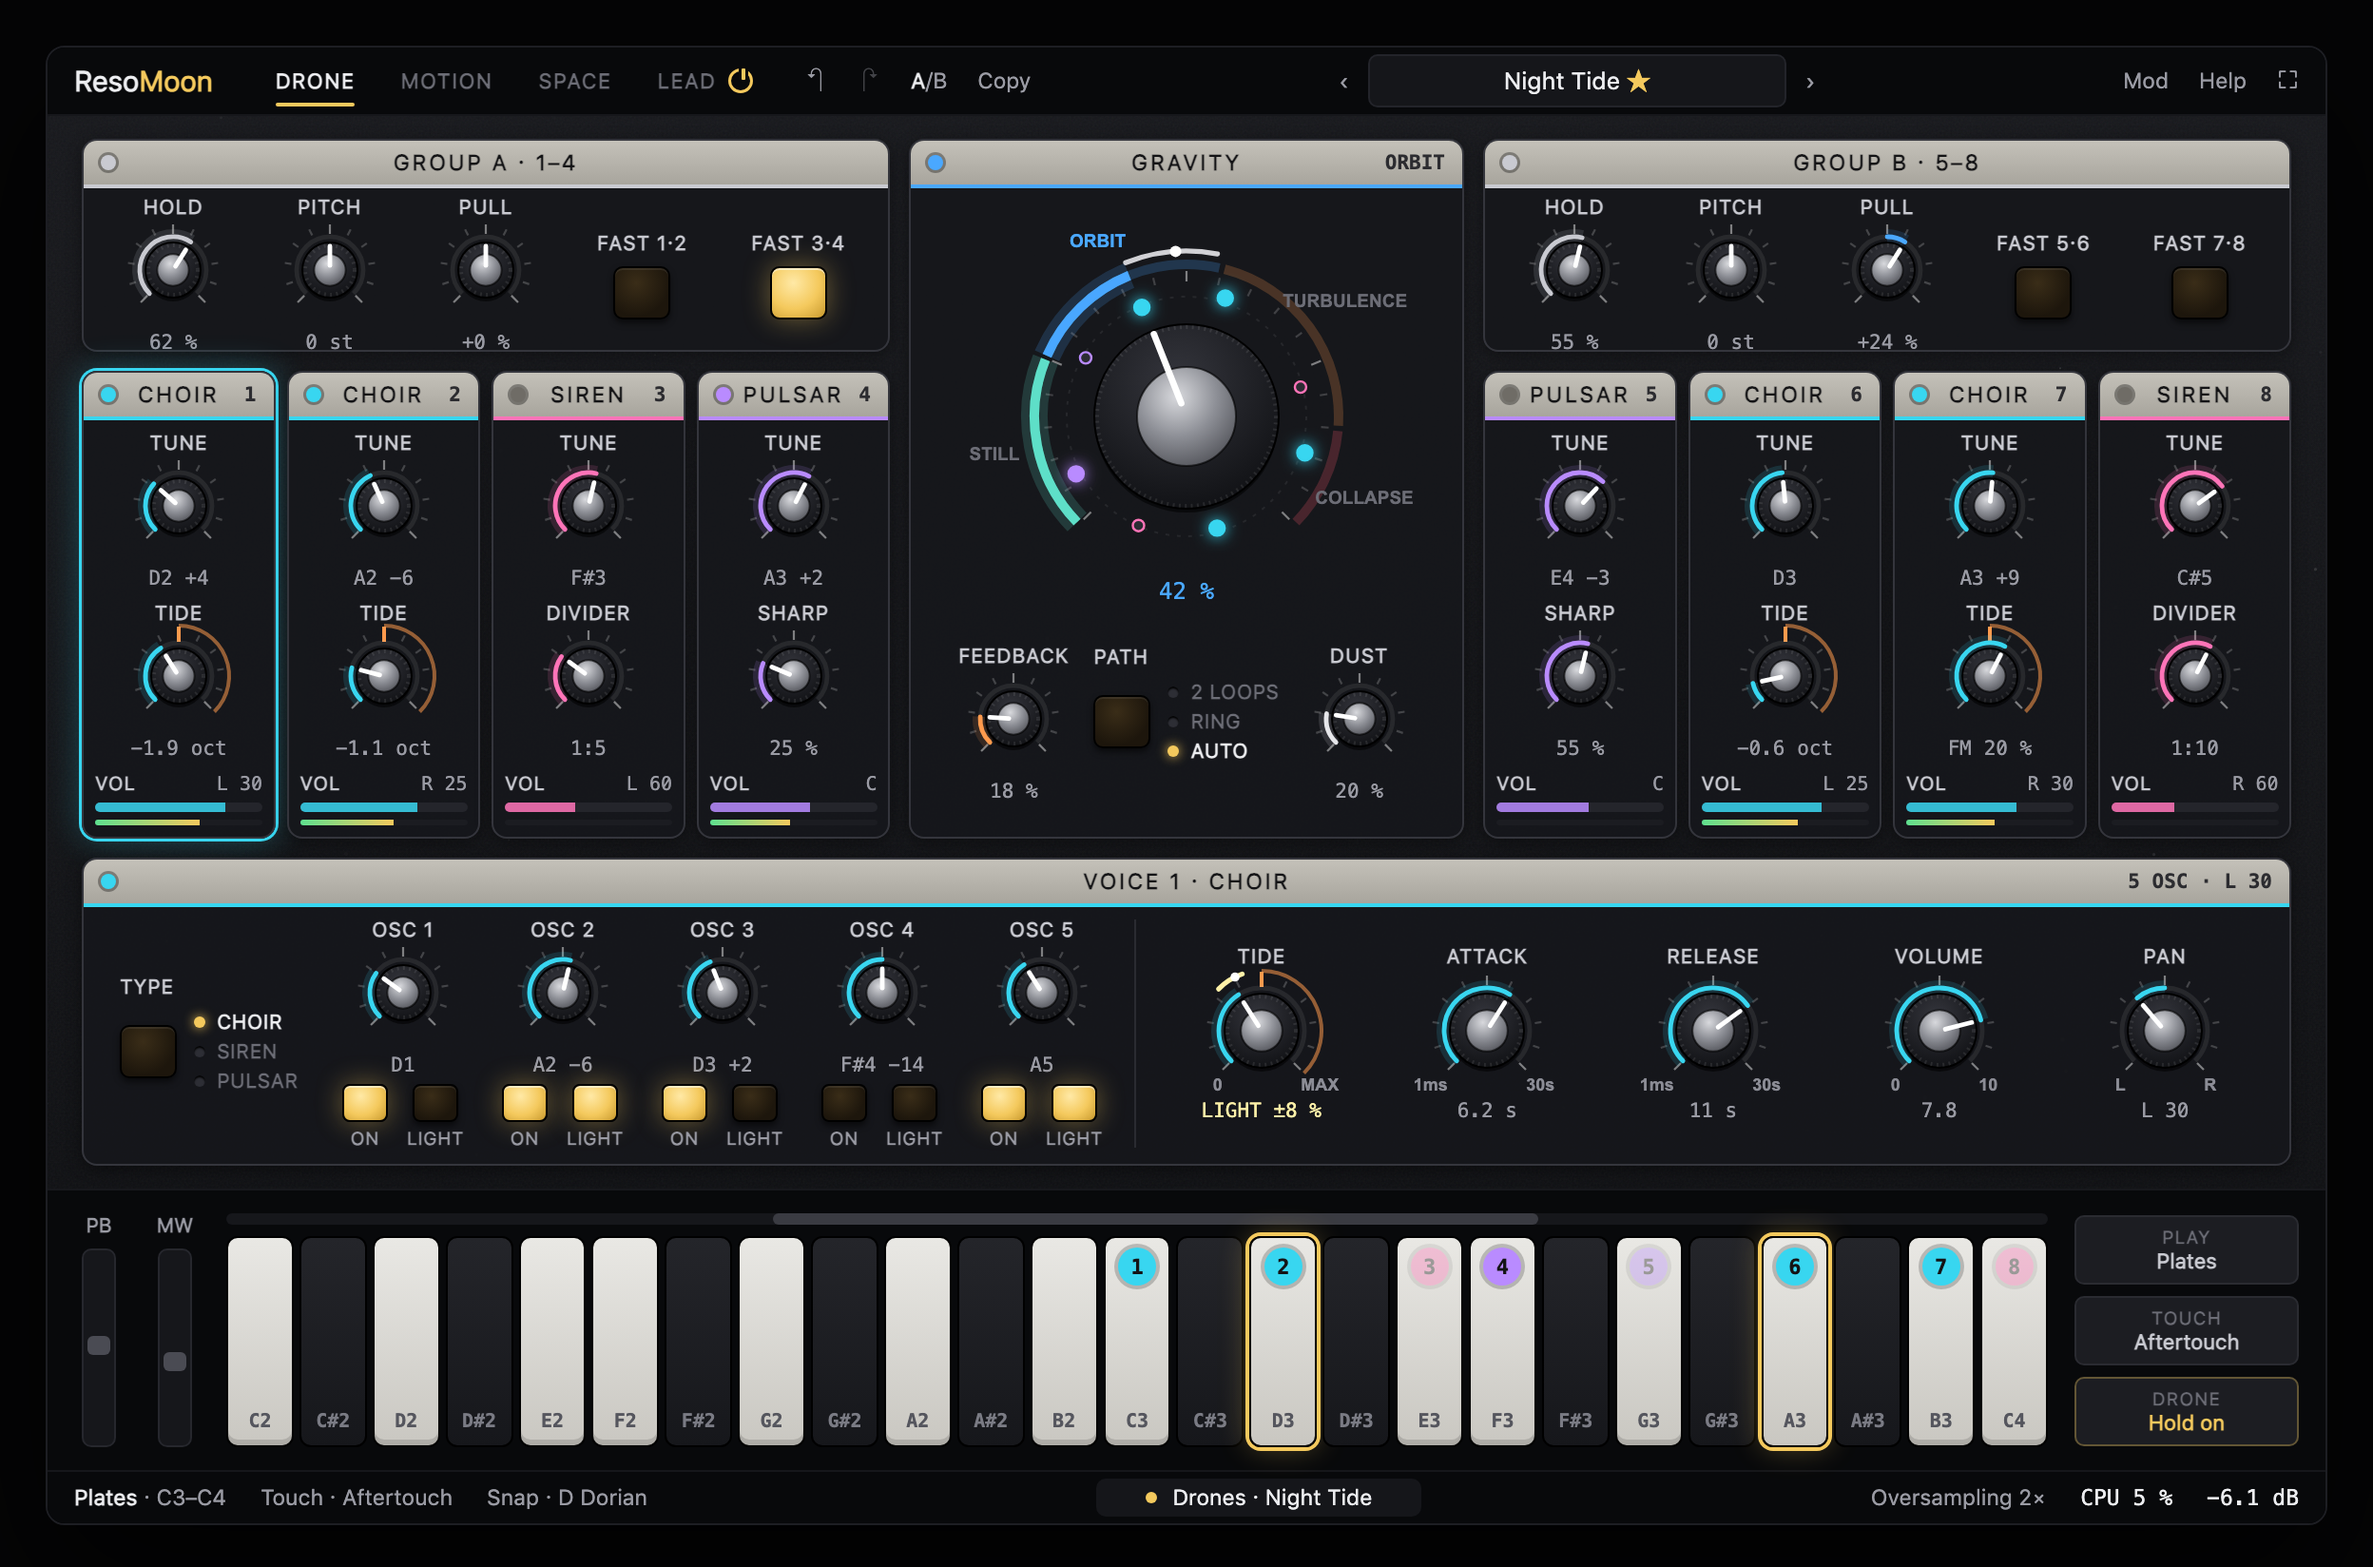
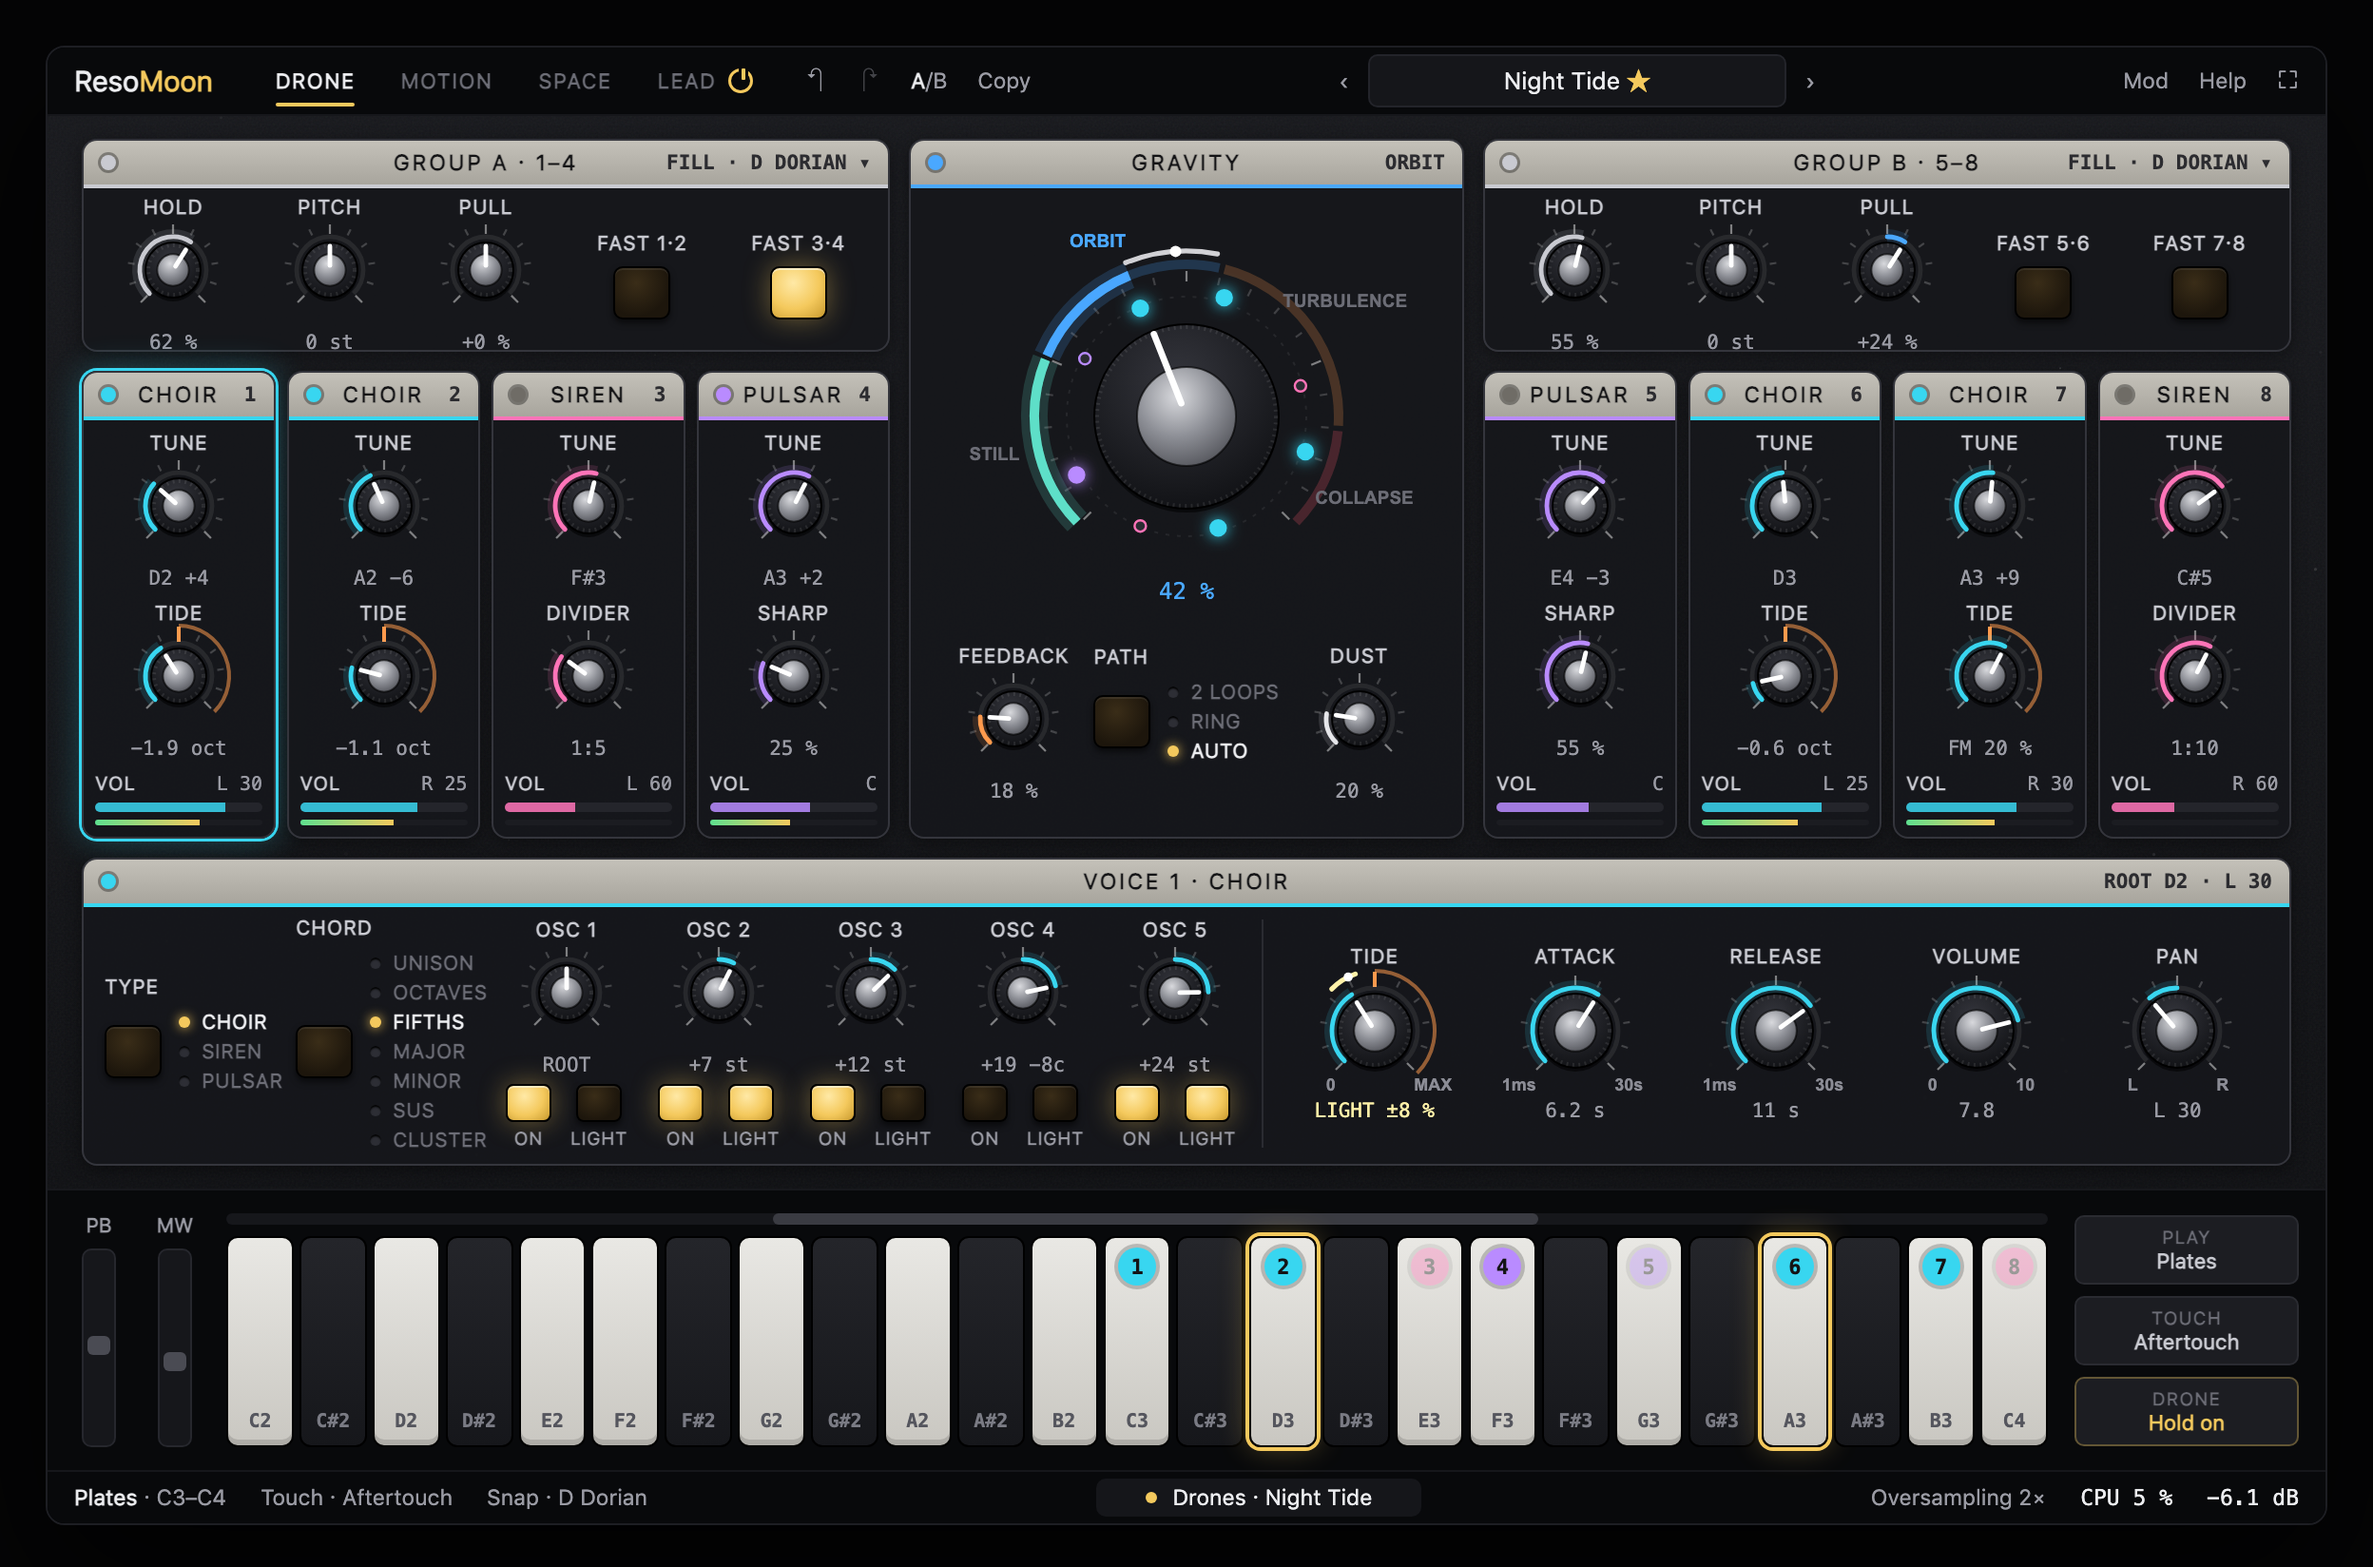
Mockup + spec: relativní ladění CHOIR (CHORD), FILL skupiny, značky hlasů v režimu KEYS

diff --git a/design/resomoon-mockup.html b/design/resomoon-mockup.html
@@ -168,7 +168,7 @@ function strip(n,ty,tune,tuneT,ch,chV,chT,vol,pan,sel,on){
  return mod({t:TY[ty],c:ty,r:n,sel,off:!on,bs:'align-content:space-between;padding-top:6px',items:[
   knob({l:'TUNE',v:tune,c:ty,small:1,t:tuneT}),knob({l:ch,v:chV,c:ty,small:1,t:chT,mid:ch=='TIDE'?.5:0}),
   `<div class="vb"><div class="row"><span>VOL</span><span class="mono">${pan}</span></div><div class="bar"><i style="width:${vol*100}%"></i></div><div class="meter"><i style="width:${on?vol*80:0}%"></i></div></div>`]})}
-function group(name,a,hold,pitch,pull,f1,f2,p1,p2){return mod({t:name,c:'grp',a,cols:'repeat(5,1fr)',items:[
+function group(name,a,hold,pitch,pull,f1,f2,p1,p2){return mod({t:name,c:'grp',a,r:'FILL · D DORIAN ▾',cols:'repeat(5,1fr)',items:[
  knob({l:'HOLD',v:hold,c:'grp',small:1,t:Math.round(hold*100)+' %'}),knob({l:'PITCH',v:pitch,c:'grp',small:1,bi:1,t:pitch==.5?'0 st':(pitch>.5?'+':'−')+Math.round(Math.abs(pitch-.5)*48)+' st'}),
  knob({l:'PULL',v:pull,c:'grav',small:1,bi:1,t:(pull>=.5?'+':'−')+Math.round(Math.abs(pull-.5)*200)+' %'}),btn('FAST '+p1,f1),btn('FAST '+p2,f2)]})}
 function drone(){return {grid:'grid-template-columns:1fr 292px 1fr;grid-template-rows:112px 246px 162px;grid-template-areas:"ga gv gb" "va gv vb" "de de de"',mods:[
@@ -181,10 +181,10 @@ function drone(){return {grid:'grid-template-columns:1fr 292px 1fr;grid-template
   strip(7,'choir',.52,'A3 +9','TIDE',.6,'FM 20 %',.66,'R 30',0,1),strip(8,'siren',.7,'C#5','DIVIDER',.6,'1:10',.38,'R 60',0,0)].join('')}</div>`,
  mod({t:'GRAVITY',c:'grav',a:'gv',r:'ORBIT',bs:'align-content:start;gap:0;padding-top:4px',items:[gravity(),
   `<div style="display:flex;justify-content:center;gap:2px;margin-top:-4px;width:100%">${knob({l:'FEEDBACK',v:.18,c:'echo',small:1,t:'18 %'})}${radio('PATH',['2 LOOPS','RING','AUTO'],2)}${knob({l:'DUST',v:.2,c:'master',small:1,t:'20 %'})}</div>`]}),
- mod({t:'VOICE 1 · CHOIR',c:'choir',a:'de',r:'5 OSC · L 30',cols:'120px repeat(5,84px) 14px repeat(5,1fr)',items:[
-  radio('TYPE',['CHOIR','SIREN','PULSAR'],0),
-  ...[['OSC 1',.30,'D1',1,0],['OSC 2',.55,'A2 −6',1,1],['OSC 3',.42,'D3 +2',1,0],['OSC 4',.5,'F#4 −14',0,0],['OSC 5',.38,'A5',1,1]].map(([l,v,t,on,lt])=>
-   `<div class="part">${knob({l,v,c:'choir',small:1,t})}<div class="bt"><div><div class="btn sm ${on?'on':''}"></div>ON</div><div><div class="btn sm ${lt?'on':''}"></div>LIGHT</div></div></div>`),
+ mod({t:'VOICE 1 · CHOIR',c:'choir',a:'de',r:'ROOT D2 · L 30',cols:'104px 104px repeat(5,80px) 12px repeat(5,1fr)',items:[
+  radio('TYPE',['CHOIR','SIREN','PULSAR'],0),radio('CHORD',['UNISON','OCTAVES','FIFTHS','MAJOR','MINOR','SUS','CLUSTER'],2),
+  ...[['OSC 1',.5,'ROOT',1,0],['OSC 2',.6,'+7 st',1,1],['OSC 3',.67,'+12 st',1,0],['OSC 4',.79,'+19 −8c',0,0],['OSC 5',.83,'+24 st',1,1]].map(([l,v,t,on,lt])=>
+   `<div class="part">${knob({l,v,c:'choir',small:1,bi:1,t})}<div class="bt"><div><div class="btn sm ${on?'on':''}"></div>ON</div><div><div class="btn sm ${lt?'on':''}"></div>LIGHT</div></div></div>`),
   '<div style="width:1px;height:120px;background:#2a2b31"></div>',
   knob({l:'TIDE',v:.38,c:'choir',lo:'0',hi:'MAX',t:'−1.9 oct',mid:.5,mod:['light',.05,'LIGHT ±8 %']}),
   knob({l:'ATTACK',v:.62,c:'choir',lo:'1ms',hi:'30s',t:'6.2 s'}),knob({l:'RELEASE',v:.7,c:'choir',lo:'1ms',hi:'30s',t:'11 s'}),

diff --git a/docs/SPECIFIKACE.md b/docs/SPECIFIKACE.md
@@ -55,7 +55,7 @@ Formáty VST3 (Win + Mac), AU (Mac), Standalone. Cíl: Ableton Live 11/12.
 
 | Typ | Zdroj | Ovladače | Charakter |
 |---|---|---|---|
-| **CHOIR** | 5 pilovitých oscilátorů, každý s vlastním laděním (rozsahy po ~2 oktávách: C0–G2, B1–G3, D3–B4, E4–C6, G5–D7), MUTE a LIGHT (modulace) pro každý | 5× TUNE, 5× MUTE, 5× LIGHT, **TIDE** | sborový akord v jednom hlasu. TIDE 0–50 % transpozice dolů, 50–100 % dál dolů + vzájemná FM pil („gravitace uvnitř hlasu“), dole sub-audio praskání |
+| **CHOIR** | 5 pilovitých oscilátorů **laděných relativně k TUNE hlasu** (OSC 1 = kořen, OSC 2–5 = intervaly −24 až +36 st + centy), ON a LIGHT (modulace) pro každý | TUNE (posune celý akord), **CHORD** (Unison / Octaves / Fifths / Major / Minor / Sus / Cluster naplní intervaly jedním klikem), 5× interval, 5× ON, 5× LIGHT, **TIDE** | sborový akord v jednom hlasu. TIDE 0–50 % transpozice dolů, 50–100 % dál dolů + vzájemná FM pil („gravitace uvnitř hlasu“), dole sub-audio praskání |
 | **SIREN** | 2 Schmittovy oscilátory (pomalý modulátor + tónový C0–E7) + bílý šum | PITCH, RANGE, RATE (×1/×10), FM AMT, DIVIDER (dělič 1:1–1:16), přepínače FM / AM, NOISE | sirény, ptáci, „monstra“, lasery, vítr, příboj. Šum napájí S&H |
 | **PULSAR** | tónový generátor trojúhelník ↔ obdélník, obálka ovlivňuje výšku a tvar | TUNE, SHARP, BLOOM (vliv obálky na výšku/barvu) | jemný až ostrý tón, nejcitlivější na FM, „živý“ |
 
@@ -67,6 +67,8 @@ Dotyk (velocity / aftertouch / MPE pressure) přidává hlasitost nad HOLD a leh
 
 Ladění: TUNE v Hz i jako nota (`A2+12`), **SNAP** Free / Chromatic / Scale (stupnice + kořen). Skupina má
 PITCH (transpozice se zachováním intervalů), celý nástroj **GLOBAL TUNE** (A4 = 415–466 Hz).
+**FILL** (menu v hlavičce skupiny): zvolená stupnice/akord rozprostře 4 hlasy skupiny po svých tónech, pak se
+jemně doladí uchem. Běžné ladění = 8 knobů TUNE, ne 40.
 
 ### 3.2 GRAVITY (středobod)
 
@@ -126,6 +128,8 @@ Matice modulací převzatá z ResoOG (sloty: zdroj → funkce → controller →
 ### 3.7 Hraní z MIDI
 - **PLATES:** 8 bílých kláves jedné oktávy (výchozí C3–C4) = hlasy 1–8. Hlasy drží své ladění.
 - **KEYS:** nota přeladí hlas (alokace: nejbližší volný hlas ve vybraných skupinách, glide přeladění), SNAP platí.
+  Na klávesnici se hlasy na stejné notě zobrazí jako malé barevné tečky vedle sebe (max. 4 + „+n“). V PLATES je
+  přiřazení pevné, čísla se nepřekrývají.
 - **LEAD:** vrstva LEAD hraje chromaticky (rozsah kláves nastavitelný, nebo vlastní MIDI kanál).
 - **TOUCH SOURCE:** Velocity / Aftertouch / Obojí / MPE. HOLD hraje bez MIDI.
 

diff --git a/docs/KONCEPT.md b/docs/KONCEPT.md
@@ -134,6 +134,12 @@ Ovládání: knoby **X / Y / Z** (s modulací) + **BLEND**. Každý algoritmus m
 
 Volitelně později (jako Solar): v režimu DUAL jiný algoritmus vlevo a vpravo.
 
+## Ladění bez otravy (Marek 10. 10.: 8 × 5 oscilátorů je moc na ruční ladění)
+- Inspirace: 8 hlasů × 1 oscilátor (Lyra), 4 hlasy × 5 oscilátorů (Solar). U nás 4× CHOIR = 20 oscilátorů.
+- CHOIR oscilátory jsou **intervaly relativně k TUNE hlasu** + **CHORD** jedním klikem.
+- **FILL** ve skupině rozprostře hlasy po stupnici/akordu.
+- Výsledek: běžně 8 knobů TUNE, jemné ladění jen tam, kde chci.
+
 ## Hraní z MIDI
 - **Režim Plates:** 8 bílých kláves jedné oktávy (C–C) = 8 hlasů. Hlasy si drží vlastní ruční ladění, klávesa je jen „prst na senzoru“. Oktávu půjde posunout.
 - **Režim Keys:** zahraná nota přeladí volný hlas (nebo pár) na danou notu (chromaticky nebo ve stupnici, s mikrotonálním posunem). Slouží jako usnadnění.
